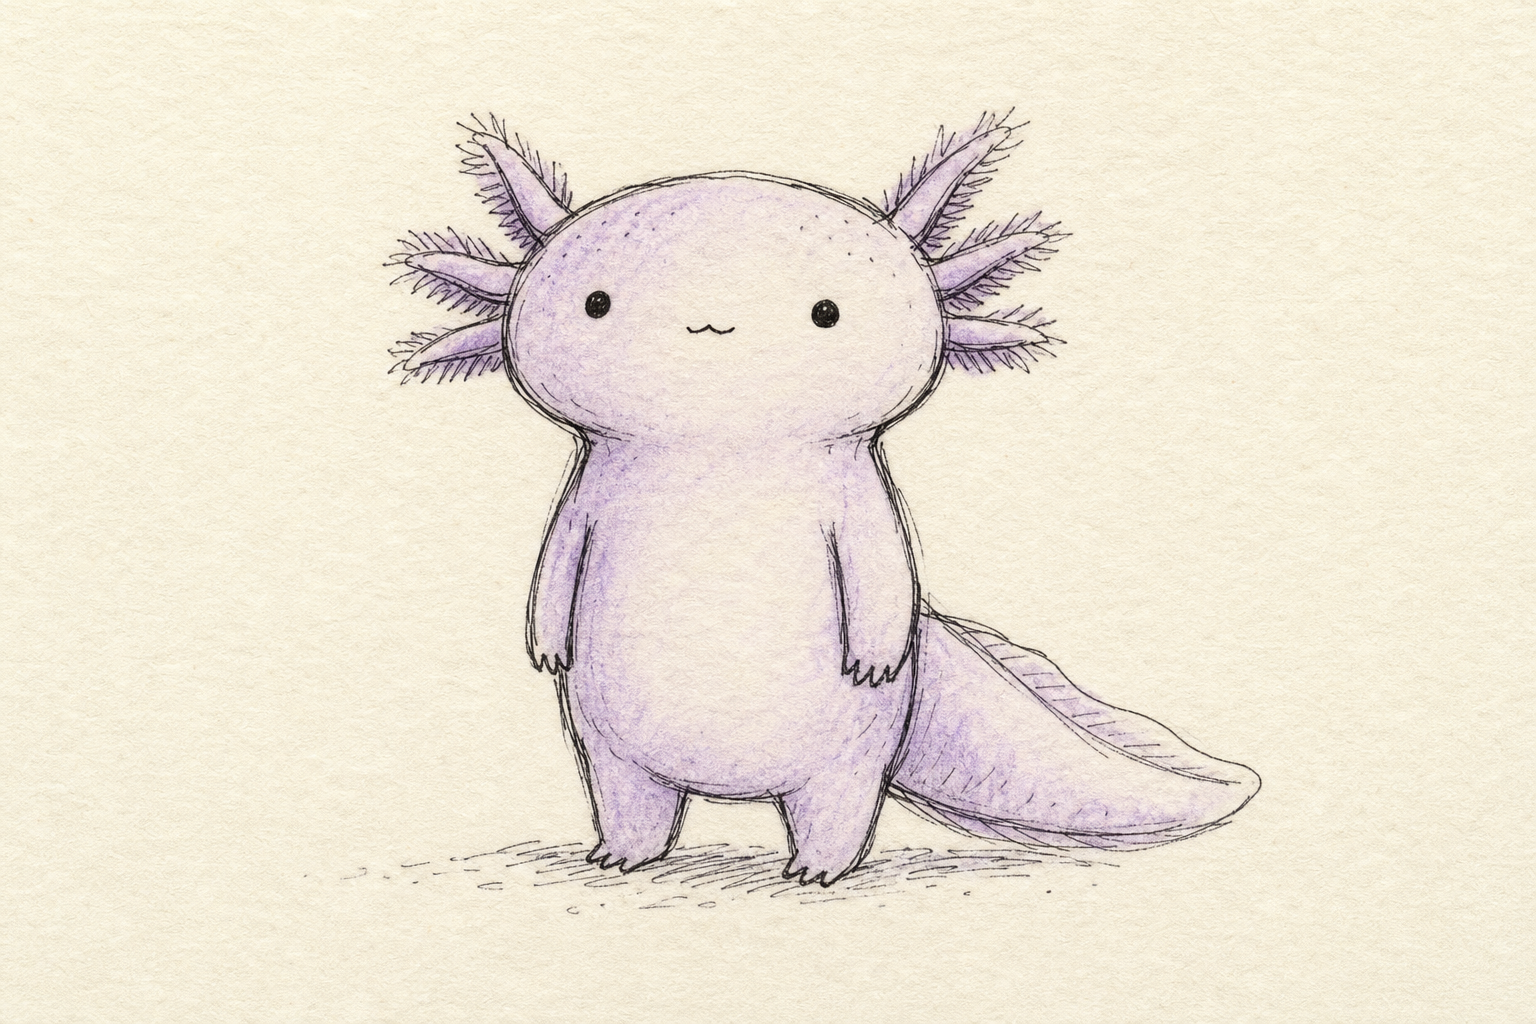
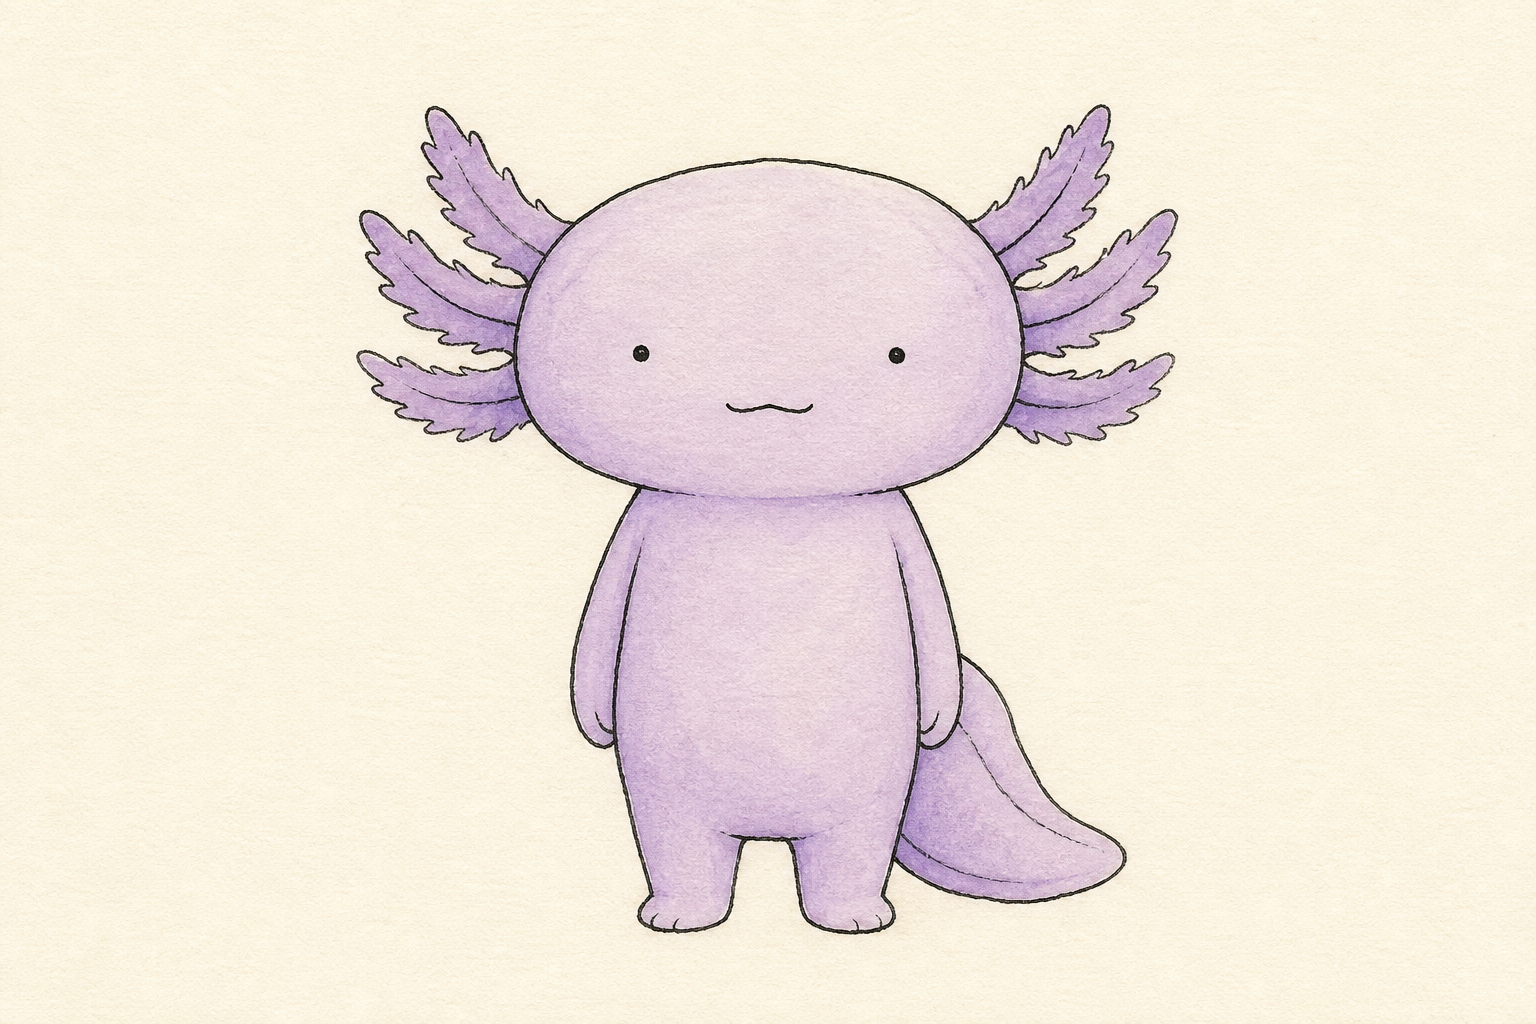
Lock Axo v3 pen style: smaller eyes, Day 1 blank stare
Canonical eyes r=2.8 to match Day 1. New Day 1 post: empty thought
cloud, flat mouth, blank forward stare. Replace doing-nothing asset.

Changed region(s): [[0.2188, 0.0938, 0.8125, 0.9375], [0.4062, 0.2812, 0.5625, 0.375]]

diff --git a/docs/ig-launch-zh-TW.md b/docs/ig-launch-zh-TW.md
@@ -42,10 +42,11 @@
 
 ### 第一篇貼文
 
-- **檔案：** [`assets/axo/pen/axo-pen-doing-nothing.svg`](../assets/axo/pen/axo-pen-doing-nothing.svg) 或 `pen/png/axo-pen-day1.png`  
-- **風格：** **鋼筆手繪 + 畫紙**（參考 rachelliao_illustration）  
-- **設計師任務：** 字與 Axo 畫在同一張畫紙上，**手寫毛筆／鋼筆感**，字要大  
-- **比例：** 4:5（1080×1350），**不要裁掉紙紋底色**  
+- **檔案：** [`assets/axo/pen/axo-pen-day1-blank-stare.svg`](../assets/axo/pen/axo-pen-day1-blank-stare.svg) 或 `pen/png/axo-pen-day1.png`  
+- **畫面：** Axo **直視前方發呆** + 頭上 **空白思考雲**（雲裡什麼都沒有）  
+- **表情：** 超小點眼 + **平線嘴 `_`**（完全空白、無情緒）  
+- **文案（圖下方）：** 今天什麼都沒做，什麼也沒想。  
+- **比例：** 4:5（1080×1350），保留畫紙紋理  
 
 ---
 
@@ -56,7 +57,7 @@
 
 | 天 | 主題 | 繁中主文案 | 英文副文案（可選） |
 |----|------|------------|-------------------|
-| **1** | 放空 | 今天什麼都沒做，什麼也沒想。 | I am doing nothing today, and thinking nothing. |
+| **1** | 發呆 | 今天什麼都沒做，什麼也沒想。（**空白思考雲**） | I am doing nothing today, and thinking nothing. |
 | **2** | 躺平正當 | 休息不是偷懶，是充電。 | Rest isn't lazy. It's recharge. |
 | **3** | 已讀不回 | 訊息已讀，靈魂離線。 | Seen. Soul offline. |
 | **4** | 鬧鐘 | 鬧鐘響了，我沒有。 | Alarm rang. I didn't. |
@@ -66,7 +67,7 @@
 
 **資產對應：**
 
-- Day 1 → `axo-doing-nothing.svg`（已有）  
+- Day 1 → `axo-pen-day1-blank-stare.svg`（發呆＋空白思考雲）  
 - Day 6 → `axo-with-mug.svg`（已有）  
 - Day 2、7 → `axo-sleepy.svg` / `axo-wave.svg` 可改字  
 - Day 3–5 → 需新增姿勢（或 AI 出稿 + 設計師修線）

diff --git a/docs/axo-style-v3-pen-zh-TW.md b/docs/axo-style-v3-pen-zh-TW.md
@@ -14,8 +14,9 @@
 | **畫紙** | 暖米色 `#F2EBD9`，可見紙紋、輕微纖維質感 |
 | **線條** | 墨色 `#2A2420`，**略歪、略抖**，線寬約 2.5–3px，有輕重 |
 | **上色** | 淡薰衣草**水彩暈染** `#E8D8E8`（opacity ~55%），不是實心向量填色 |
-| **眼睛** | 仍為兩顆**手畫黑點**（可略不圓，更像筆點） |
-| **嘴巴** | 極小 **`w`**，一筆畫成 |
+| **眼睛** | 兩顆**超小**手畫黑點，**r=2.8**（標準立姿與 Day 1 一致） |
+| **嘴巴** | 預設極小 **`w`**；**放空／發呆**時改為 **`_` 平線**（無表情） |
+| **官方主檔** | `axo-pen-canonical.svg` + `png/axo-pen-canonical.png` |
 | **腮紅** | 不要 |
 | **頭身** | 三頭身 |
 | **情緒** | Stupid cute、呆、心酸療癒（與瑞秋廖／呱鬆蛙蛙同溫層） |
@@ -28,6 +29,17 @@
 - 畫紙底色 > 純白去背感  
 - 角色小、**情緒一句話**大（IG 4:5）  
 - 可愛但不日系萌、不 3D、不厚塗  
+
+---
+
+## Day 1 首發（發呆）
+
+| 元素 | 說明 |
+|------|------|
+| 表情 | 直視前方、**完全空白**、平線嘴 `_` |
+| 構圖 | 頭上 **空白思考雲**（thought cloud，裡面什麼都沒有） |
+| 意義 | 讓人一眼看懂 Axo 在 **發呆**，不是在想事情 |
+| 檔案 | `axo-pen-day1-blank-stare.svg` · `png/axo-pen-day1.png` |
 
 ---
 

diff --git a/docs/axo-style-locked-zh-TW.md b/docs/axo-style-locked-zh-TW.md
@@ -51,14 +51,15 @@
 
 ---
 
-## 首發貼文（Day 1）
+## 首發貼文（Day 1 — 發呆）
 
 | 語言 | 文案 |
 |------|------|
 | 繁中 | 今天什麼都沒做，什麼也沒想。 |
 | English | I am doing nothing today, and thinking nothing |
 
-**資產：** [`assets/axo/axo-doing-nothing.svg`](../assets/axo/axo-doing-nothing.svg)
+| 視覺 | 直視前方空白表情 + **空白思考雲** |
+| 資產 | [`assets/axo/pen/axo-pen-day1-blank-stare.svg`](../assets/axo/pen/axo-pen-day1-blank-stare.svg) |
 
 ---
 

diff --git a/README.md b/README.md
@@ -15,7 +15,7 @@ v2 平面向量（封存）：[`assets/axo/`](assets/axo/)
 
 See the [Axo character sheet](docs/axo-character-sheet.md) for colors, anatomy rules, and Printfly export steps.
 
-**風格已鎖定（繁中）：** [axo-style-locked-zh-TW.md](docs/axo-style-locked-zh-TW.md) · **Day 1 貼文：** `assets/axo/axo-doing-nothing.svg`
+**風格 v3（繁中）：** [axo-style-v3-pen-zh-TW.md](docs/axo-style-v3-pen-zh-TW.md) · **Day 1 發呆：** `assets/axo/pen/axo-pen-day1-blank-stare.svg`
 
 ## Docs
 
